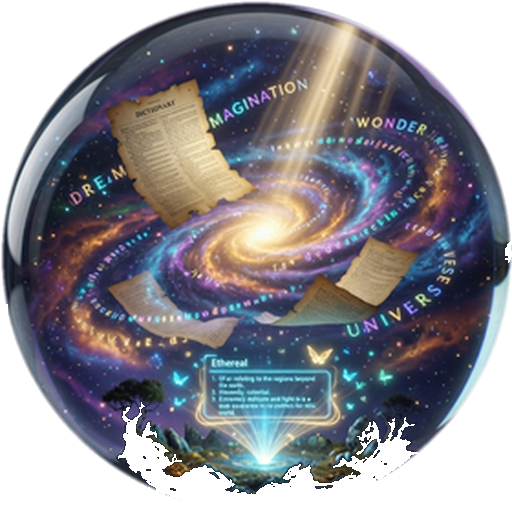
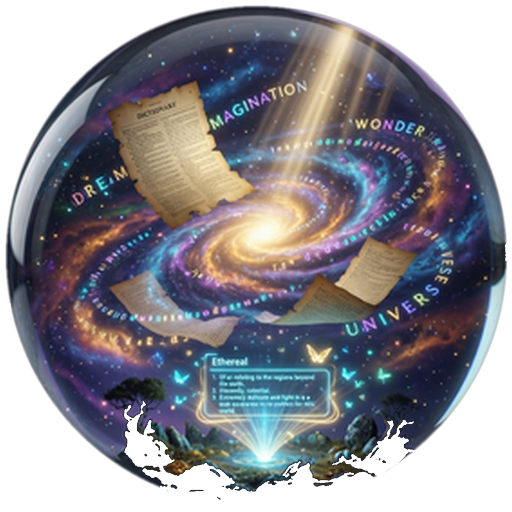
Dictionary marble: clean transparent edges, full-size sphere

diff --git a/hero-live.html b/hero-live.html
@@ -1289,7 +1289,7 @@ a:focus-visible, button:focus-visible, input:focus-visible {
       </article>
 
       <article class="feature-card tilt fade-in" data-tilt>
-        <span class="feature-icon feature-marble m-drift" aria-hidden="true"><img src="marbles/dictionary_static.png?v=30" data-gif="marbles/dictionary.gif?v=30" data-static="marbles/dictionary_static.png?v=30" alt="" loading="lazy" width="280" height="280"></span>
+        <span class="feature-icon feature-marble m-drift" aria-hidden="true"><img src="marbles/dictionary_static.png?v=38" data-gif="marbles/dictionary.gif?v=38" data-static="marbles/dictionary_static.png?v=38" alt="" loading="lazy" width="280" height="280"></span>
         <h3 class="feature-name">Dictionary</h3>
         <p class="feature-desc">English and Spanish definitions, pronunciation, and example sentences. Free, no AI key needed.</p>
         <span class="feature-badge">FREE · BILINGUAL</span>